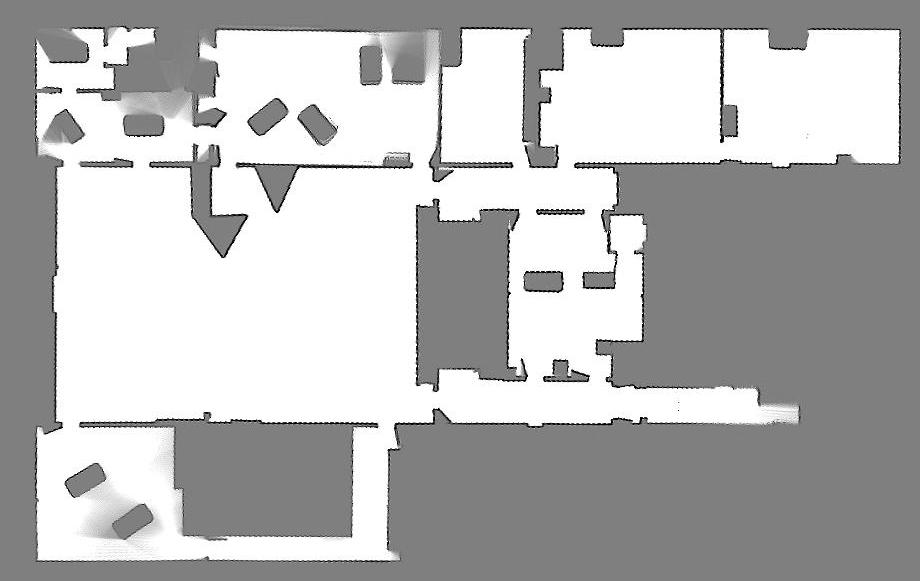
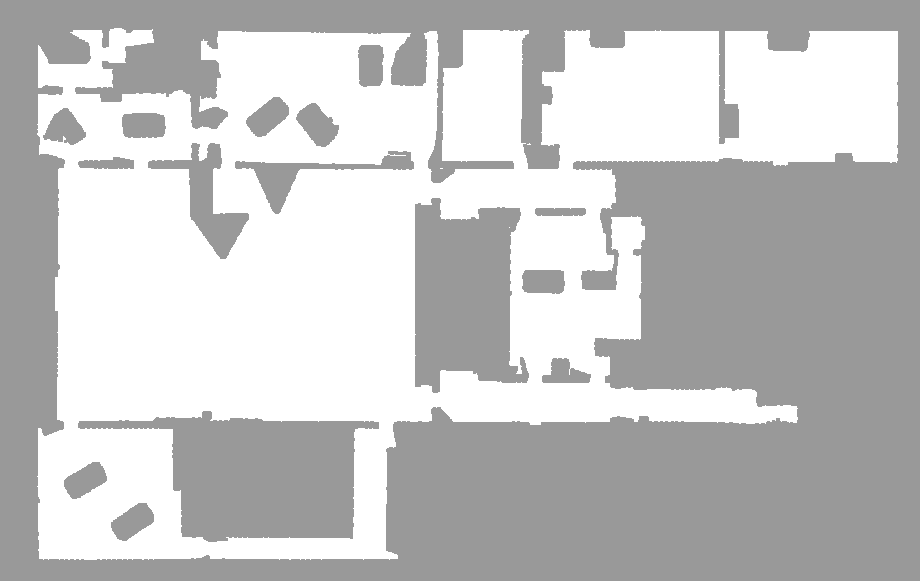
made sure wavefront_region_gowing doesn't look at Pixels out of image range

diff --git a/ipa_room_segmentation/common/src/wavefront_region_growing.cpp b/ipa_room_segmentation/common/src/wavefront_region_growing.cpp
@@ -15,9 +15,9 @@ void wavefrontRegionGrowing(cv::Mat& image)
 	while (finished == false)
 	{
 		finished = true;
-		for (int row = 0; row < spreading_map.rows; ++row)
+		for (int row = 1; row < spreading_map.rows-1; ++row)
 		{
-			for (int column = 0; column < spreading_map.cols; ++column)
+			for (int column = 1; column < spreading_map.cols-1; ++column)
 			{
 				if (spreading_map.at<int>(row, column) > 65279)		// unassigned pixels
 				{

diff --git a/ipa_building_navigation/ros/src/tester.cpp b/ipa_building_navigation/ros/src/tester.cpp
@@ -56,8 +56,7 @@ int main(int argc, char **argv)
 	srand(5); //time(NULL));
 	ros::init(argc, argv, "a_star_tester");
 	ros::NodeHandle nh;
-	cv::Mat map = cv::imread("/home/rmb-fj/Pictures/maps/black_map.png", 0);
-
+	cv::Mat map = cv::imread("/home/rmb-fj/Pictures/testmaps/lab_d.png", 0);
 
 	AStarPlanner planner;
 //	NearestNeigborTSPSolver TSPsolver;
